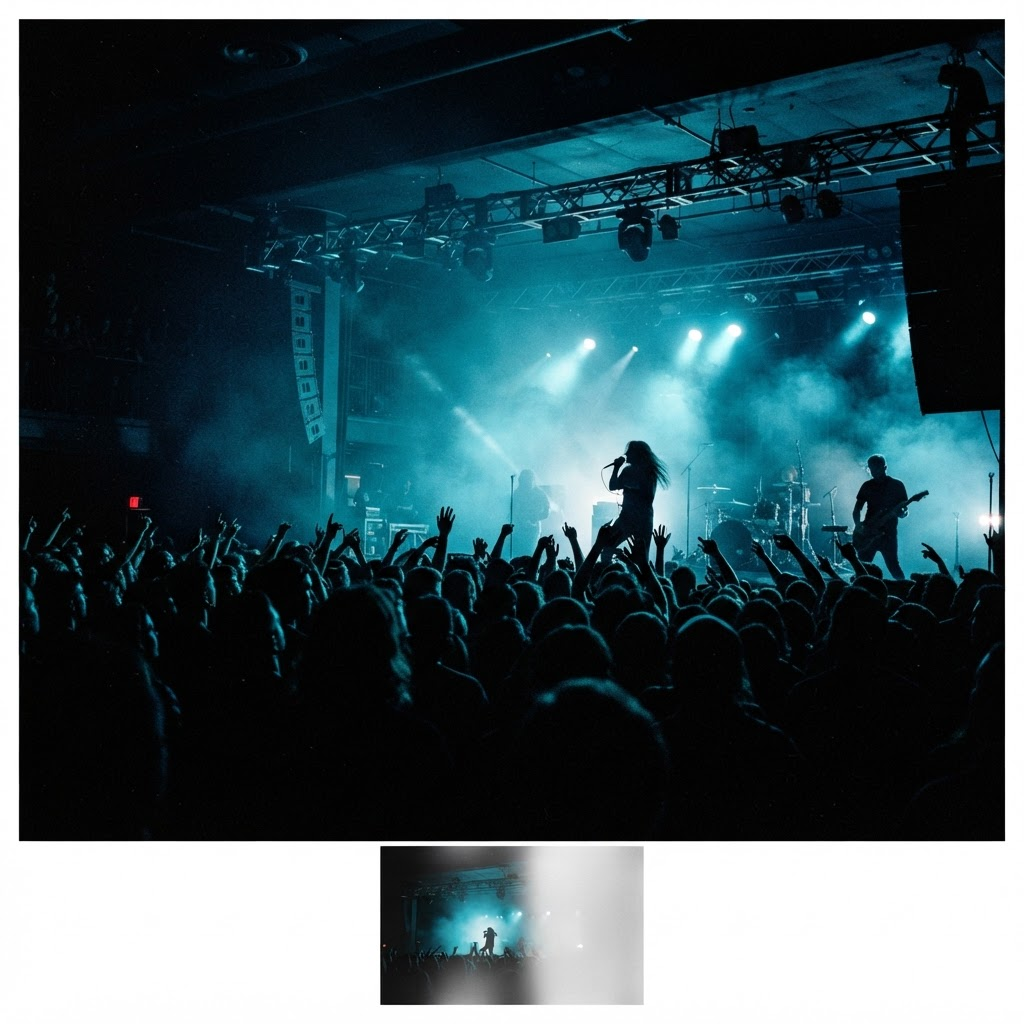
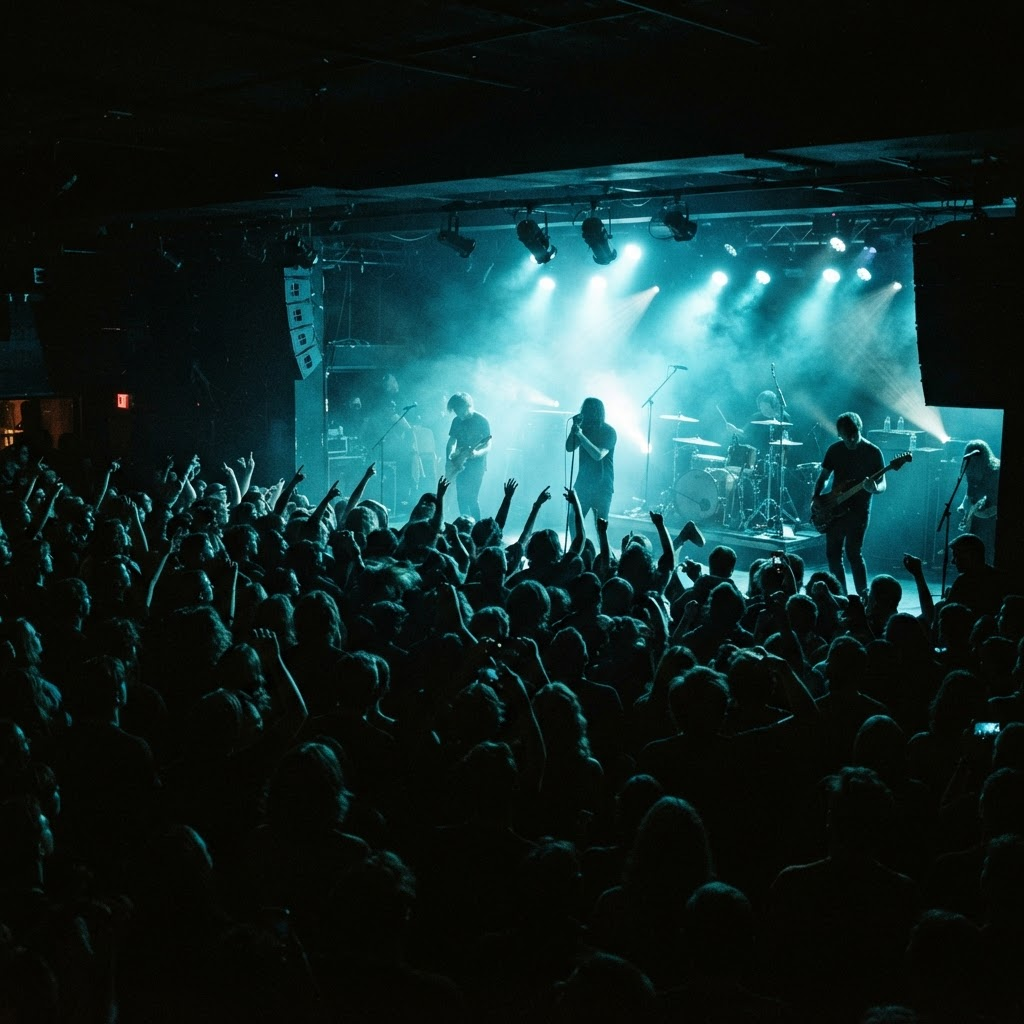
Refine reveals, hero HUD, reel controls, and stage image
- Reveal: replace clip-path wipe with a quick, clean fade + slight vertical offset (500ms)
- Hero filmstrip: redesign empty boxes into a tech HUD — index/total, LIVE/CUE status dot, equalizer glyph, corner crop marks
- Reel: add real horizontal navigation — pointer drag-to-scroll, prev/next arrow buttons, and a draggable cyan scrollbar thumb (drag suppresses lightbox open)
- Regenerate reel-stage.png full-bleed with no baked-in white border

diff --git a/components/reel-section.tsx b/components/reel-section.tsx
@@ -1,7 +1,8 @@
 'use client'
 
 import Image from 'next/image'
-import { useEffect, useRef, useState } from 'react'
+import { useCallback, useEffect, useRef, useState } from 'react'
+import { ArrowLeft, ArrowRight } from 'lucide-react'
 import { SectionHeading } from '@/components/section-heading'
 import { useLightbox, type LightboxSlide } from '@/components/lightbox'
 import { disciplines } from '@/lib/site-data'
@@ -9,27 +10,112 @@ import { disciplines } from '@/lib/site-data'
 export function ReelSection() {
   const { open } = useLightbox()
   const trackRef = useRef<HTMLDivElement>(null)
+  const barRef = useRef<HTMLDivElement>(null)
   const [progress, setProgress] = useState(0)
+  const [ratio, setRatio] = useState(0.3)
+  const [canPrev, setCanPrev] = useState(false)
+  const [canNext, setCanNext] = useState(true)
+
+  const dragging = useRef(false)
+  const moved = useRef(false)
+  const startX = useRef(0)
+  const startLeft = useRef(0)
+  const barDragging = useRef(false)
+
   const gallery: LightboxSlide[] = disciplines.map((item) => ({ src: item.image, alt: item.name, caption: item.name, meta: item.category }))
+
+  const measure = useCallback(() => {
+    const el = trackRef.current
+    if (!el) return
+    const max = el.scrollWidth - el.clientWidth
+    setProgress(max > 0 ? el.scrollLeft / max : 0)
+    setRatio(el.scrollWidth > 0 ? Math.min(1, el.clientWidth / el.scrollWidth) : 1)
+    setCanPrev(el.scrollLeft > 4)
+    setCanNext(el.scrollLeft < max - 4)
+  }, [])
 
   useEffect(() => {
     const el = trackRef.current
     if (!el) return
-    const onScroll = () => {
-      const max = el.scrollWidth - el.clientWidth
-      setProgress(max > 0 ? el.scrollLeft / max : 0)
+    measure()
+    el.addEventListener('scroll', measure, { passive: true })
+    window.addEventListener('resize', measure)
+    return () => {
+      el.removeEventListener('scroll', measure)
+      window.removeEventListener('resize', measure)
     }
-    el.addEventListener('scroll', onScroll, { passive: true })
-    onScroll()
-    return () => el.removeEventListener('scroll', onScroll)
-  }, [])
+  }, [measure])
+
+  const page = (d: number) => {
+    const el = trackRef.current
+    if (!el) return
+    el.scrollBy({ left: d * el.clientWidth * 0.8, behavior: 'smooth' })
+  }
+
+  // Drag-to-scroll across the whole rail.
+  const onPointerDown = (e: React.PointerEvent) => {
+    const el = trackRef.current
+    if (!el) return
+    dragging.current = true
+    moved.current = false
+    startX.current = e.clientX
+    startLeft.current = el.scrollLeft
+    el.setPointerCapture(e.pointerId)
+  }
+  const onPointerMove = (e: React.PointerEvent) => {
+    const el = trackRef.current
+    if (!el || !dragging.current) return
+    const dx = e.clientX - startX.current
+    if (Math.abs(dx) > 5) moved.current = true
+    el.scrollLeft = startLeft.current - dx
+  }
+  const endDrag = (e: React.PointerEvent) => {
+    const el = trackRef.current
+    dragging.current = false
+    if (el && el.hasPointerCapture(e.pointerId)) el.releasePointerCapture(e.pointerId)
+  }
+  const handleOpen = (i: number) => {
+    if (moved.current) return
+    open(gallery, i)
+  }
+
+  // Draggable cyan scrollbar thumb.
+  const scrubTo = (clientX: number) => {
+    const bar = barRef.current
+    const el = trackRef.current
+    if (!bar || !el) return
+    const rect = bar.getBoundingClientRect()
+    const thumbW = rect.width * ratio
+    const pos = Math.min(Math.max(clientX - rect.left - thumbW / 2, 0), rect.width - thumbW)
+    const frac = rect.width - thumbW > 0 ? pos / (rect.width - thumbW) : 0
+    el.scrollLeft = frac * (el.scrollWidth - el.clientWidth)
+  }
+  const onBarDown = (e: React.PointerEvent) => {
+    barDragging.current = true
+    e.currentTarget.setPointerCapture(e.pointerId)
+    scrubTo(e.clientX)
+  }
+  const onBarMove = (e: React.PointerEvent) => {
+    if (barDragging.current) scrubTo(e.clientX)
+  }
+  const onBarUp = (e: React.PointerEvent) => {
+    barDragging.current = false
+    if (e.currentTarget.hasPointerCapture(e.pointerId)) e.currentTarget.releasePointerCapture(e.pointerId)
+  }
+
+  const thumbLeft = (1 - ratio) * progress * 100
+  const thumbWidth = ratio * 100
 
   return (
     <section id="reel" className="scroll-mt-20 border-t border-border bg-background py-24 md:py-32">
       <div className="container-wide"><SectionHeading index="// 02" ghost="Featured" title="Work" subtitle="Studio / Portfolio" /></div>
       <div
         ref={trackRef}
-        className="flex snap-x snap-mandatory gap-5 overflow-x-auto px-6 pb-4 md:gap-6 md:px-8 [-ms-overflow-style:none] [scrollbar-width:none] [&::-webkit-scrollbar]:hidden"
+        onPointerDown={onPointerDown}
+        onPointerMove={onPointerMove}
+        onPointerUp={endDrag}
+        onPointerCancel={endDrag}
+        className="flex cursor-grab select-none snap-x snap-mandatory gap-5 overflow-x-auto px-6 pb-4 active:cursor-grabbing md:gap-6 md:px-8 [-ms-overflow-style:none] [scrollbar-width:none] [&::-webkit-scrollbar]:hidden"
       >
         {disciplines.map((item, i) => {
           const feature = i % 3 === 0
@@ -37,11 +123,11 @@ export function ReelSection() {
             <figure key={item.name} className={`flex shrink-0 snap-start flex-col ${feature ? 'w-[85vw] md:w-[44rem]' : 'w-[72vw] md:w-[23rem]'}`}>
               <button
                 type="button"
-                onClick={() => open(gallery, i)}
+                onClick={() => handleOpen(i)}
                 aria-label={`Open ${item.name} in lightbox`}
                 className={`group relative block w-full overflow-hidden bg-band ${feature ? 'aspect-[16/10]' : 'aspect-[3/4]'}`}
               >
-                <Image src={item.image || '/placeholder.svg'} alt={item.name} fill className="transform-gpu object-cover grayscale transition duration-700 ease-out group-hover:scale-105 group-hover:grayscale-0" sizes="(min-width: 768px) 44rem, 85vw" />
+                <Image src={item.image || '/placeholder.svg'} alt={item.name} fill draggable={false} className="transform-gpu object-cover grayscale transition duration-700 ease-out group-hover:scale-105 group-hover:grayscale-0" sizes="(min-width: 768px) 44rem, 85vw" />
                 <div className="absolute inset-0 bg-scrim/25 transition-colors duration-500 group-hover:bg-scrim/40" />
                 <span className="absolute left-4 top-4 font-mono text-[0.6rem] uppercase tracking-[0.3em] text-band-foreground/80">{`0${i + 1}`}</span>
               </button>
@@ -54,12 +140,33 @@ export function ReelSection() {
         })}
         <div className="shrink-0 pl-1 pr-2" aria-hidden="true" />
       </div>
-      <div className="container-wide mt-8">
-        <div className="relative h-px w-full bg-border">
-          <div className="absolute left-0 top-0 h-px bg-accent transition-[width] duration-150 ease-out" style={{ width: `${Math.max(6, progress * 100)}%` }} />
+
+      <div className="container-wide mt-8 flex items-center gap-5">
+        <div
+          ref={barRef}
+          onPointerDown={onBarDown}
+          onPointerMove={onBarMove}
+          onPointerUp={onBarUp}
+          onPointerCancel={onBarUp}
+          role="scrollbar"
+          aria-controls="reel"
+          aria-orientation="horizontal"
+          aria-label="Scroll featured work"
+          aria-valuenow={Math.round(progress * 100)}
+          className="relative h-4 flex-1 cursor-pointer touch-none"
+        >
+          <span className="pointer-events-none absolute left-0 top-1/2 h-px w-full -translate-y-1/2 bg-border" />
+          <span
+            className="pointer-events-none absolute top-1/2 h-1 -translate-y-1/2 bg-accent"
+            style={{ left: `${thumbLeft}%`, width: `${thumbWidth}%` }}
+          />
         </div>
-        <p className="mt-3 font-mono text-[0.6rem] uppercase tracking-[0.3em] text-muted-foreground">Scroll &rarr; to browse</p>
+        <div className="flex shrink-0 items-center gap-2">
+          <button type="button" onClick={() => page(-1)} disabled={!canPrev} aria-label="Previous work" className="flex h-10 w-10 items-center justify-center border border-border text-foreground transition-colors hover:border-accent hover:text-accent disabled:opacity-30 disabled:hover:border-border disabled:hover:text-foreground"><ArrowLeft className="h-4 w-4" strokeWidth={1.5} /></button>
+          <button type="button" onClick={() => page(1)} disabled={!canNext} aria-label="Next work" className="flex h-10 w-10 items-center justify-center border border-border text-foreground transition-colors hover:border-accent hover:text-accent disabled:opacity-30 disabled:hover:border-border disabled:hover:text-foreground"><ArrowRight className="h-4 w-4" strokeWidth={1.5} /></button>
+        </div>
       </div>
+      <p className="container-wide mt-3 font-mono text-[0.6rem] uppercase tracking-[0.3em] text-muted-foreground">Drag &middot; scrub &middot; or use arrows to browse</p>
     </section>
   )
 }

diff --git a/components/hero-slider.tsx b/components/hero-slider.tsx
@@ -116,6 +116,8 @@ export function HeroSlider() {
           <div className="mt-8 flex items-stretch gap-2 pointer-events-auto sm:gap-3">
             {heroSlides.map((slide, i) => {
               const isActive = i === active
+              const n = String(i + 1).padStart(2, '0')
+              const total = String(count).padStart(2, '0')
               return (
                 <button
                   key={slide.subtitle}
@@ -123,9 +125,31 @@ export function HeroSlider() {
                   onClick={() => change(i >= active ? 1 : -1, i)}
                   aria-label={`Show slide ${i + 1}`}
                   aria-current={isActive}
-                  className={`group relative h-11 flex-1 border transition-colors ${isActive ? 'border-band-foreground/50' : 'border-band-foreground/20 hover:border-band-foreground/40'}`}
+                  className={`group relative h-16 flex-1 overflow-hidden border text-left transition-colors ${isActive ? 'border-accent/60 bg-accent/[0.06]' : 'border-band-foreground/20 hover:border-band-foreground/40'}`}
                 >
-                  <span className={`absolute left-2 top-1.5 font-mono text-[0.55rem] uppercase tracking-[0.2em] transition-colors ${isActive ? 'text-band-foreground' : 'text-band-foreground/50 group-hover:text-band-foreground/80'}`}>{slide.kicker.replace('// ', '')}</span>
+                  {/* corner crop marks */}
+                  <span aria-hidden className={`absolute left-0 top-0 h-1.5 w-1.5 border-l border-t ${isActive ? 'border-accent' : 'border-band-foreground/40'}`} />
+                  <span aria-hidden className={`absolute right-0 top-0 h-1.5 w-1.5 border-r border-t ${isActive ? 'border-accent' : 'border-band-foreground/40'}`} />
+                  {/* header: index / total */}
+                  <span className="absolute left-2 top-1.5 flex items-center gap-1 font-mono text-[0.55rem] uppercase tracking-[0.2em]">
+                    <span className={isActive ? 'text-accent' : 'text-band-foreground/55 group-hover:text-band-foreground/80'}>{n}</span>
+                    <span className="text-band-foreground/25">/ {total}</span>
+                  </span>
+                  {/* status readout */}
+                  <span className="absolute right-2 top-1.5 flex items-center gap-1 font-mono text-[0.5rem] uppercase tracking-[0.2em]">
+                    <span className={`h-1 w-1 rounded-full ${isActive ? 'animate-pulse bg-accent' : 'bg-band-foreground/30'}`} />
+                    <span className={isActive ? 'text-accent' : 'text-band-foreground/40'}>{isActive ? 'Live' : 'Cue'}</span>
+                  </span>
+                  {/* label + equalizer */}
+                  <span className="absolute bottom-2.5 left-2 right-2 flex items-end justify-between gap-2">
+                    <span className={`hidden truncate font-mono text-[0.55rem] uppercase tracking-[0.22em] sm:block ${isActive ? 'text-band-foreground/80' : 'text-band-foreground/40'}`}>{slide.kicker.replace('// ', '')}</span>
+                    <span aria-hidden className="flex items-end gap-[2px]">
+                      {[5, 9, 6, 11, 7].map((h, b) => (
+                        <span key={b} className={`w-[2px] ${isActive ? 'bg-accent/80' : 'bg-band-foreground/25'}`} style={{ height: `${h}px` }} />
+                      ))}
+                    </span>
+                  </span>
+                  {/* progress */}
                   <span className="absolute bottom-0 left-0 h-[3px] w-full bg-band-foreground/15">
                     <span
                       key={isActive ? `fill-${active}-${seconds}-${autoplay}` : `idle-${i}`}

diff --git a/components/reveal.tsx b/components/reveal.tsx
@@ -1,29 +1,23 @@
 'use client'
 
-import { useEffect, useRef, useState, type CSSProperties, type ReactNode } from 'react'
+import { useEffect, useRef, useState, type ReactNode } from 'react'
 
 export function Reveal({
   children,
   className,
   delay = 0,
   as: Tag = 'div',
-  variant = 'wipe',
 }: {
   children: ReactNode
   className?: string
   delay?: number
   as?: 'div' | 'li' | 'span'
-  variant?: 'wipe' | 'fade'
 }) {
   const ref = useRef<HTMLElement | null>(null)
   const [show, setShow] = useState(false)
   useEffect(() => {
     const el = ref.current
     if (!el) return
-    // Observe an unclipped node: the wipe applies clip-path to `el`, which
-    // collapses its paint rect to zero and makes IntersectionObserver report
-    // ratio 0. The parent is never clipped, so it triggers reliably.
-    const target = el.parentElement ?? el
     const io = new IntersectionObserver(
       ([entry]) => {
         if (entry.isIntersecting) {
@@ -31,22 +25,21 @@ export function Reveal({
           io.disconnect()
         }
       },
-      { root: null, rootMargin: '0px 0px -12% 0px', threshold: 0 },
+      { rootMargin: '0px 0px -10% 0px', threshold: 0 },
     )
-    io.observe(target)
+    io.observe(el)
     return () => io.disconnect()
   }, [])
-  const hidden: CSSProperties =
-    variant === 'wipe'
-      ? { clipPath: 'inset(0 0 100% 0)', opacity: 0, transform: 'translateY(1.25rem)' }
-      : { opacity: 0, transform: 'translateY(1.5rem)' }
-  const shown: CSSProperties = { clipPath: 'inset(0 0 0 0)', opacity: 1, transform: 'translateY(0)' }
   return (
     <Tag
       /* @ts-expect-error polymorphic ref */
       ref={ref}
-      style={{ transitionDelay: `${delay}ms`, ...(show ? shown : hidden) }}
-      className={`transition-[clip-path,opacity,transform] duration-[900ms] ease-[cubic-bezier(0.65,0,0.35,1)] ${className ?? ''}`}
+      style={{
+        transitionDelay: `${delay}ms`,
+        opacity: show ? 1 : 0,
+        transform: show ? 'translateY(0)' : 'translateY(0.9rem)',
+      }}
+      className={`transition-[opacity,transform] duration-500 ease-out ${className ?? ''}`}
     >
       {children}
     </Tag>
